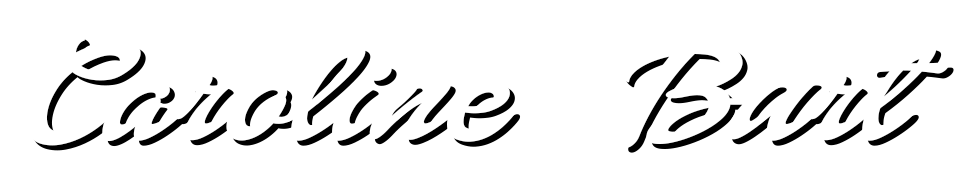
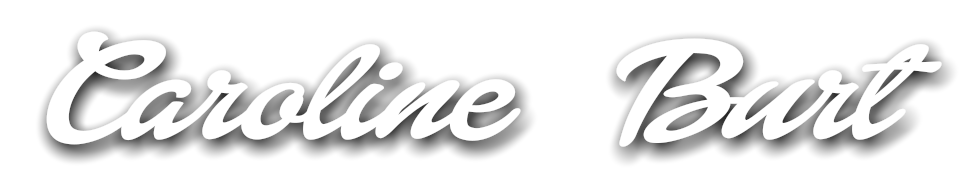
Did some styling, added title to main page, added audio files but did not implement them yet.

Changed region(s): [[0.0306, 0.1562, 0.551, 0.8438], [0.6122, 0.1875, 0.9796, 0.8438], [0.6429, 0.2188, 0.6735, 0.25]]

diff --git a/style.css b/style.css
@@ -17,20 +17,28 @@ img {
 }
 
 h2 {
-	font-family: "Barbie", serif;
-	font-size: 6VH;
+	font-family: "Helvetica Neue", sans-serif;
+	font-weight: 200;
+	font-size: 5.5VH;
+	/*color: #fff;*/
+	text-shadow: 2px 4px 3px rgba(0,0,0,0.2);
 }
 
 h3 {
 	font-size: 2.5vh;
+	font-family: "Helvtica Neue", sans-serif;
+	font-weight: 400;
+	font-style: italic;
+	text-shadow: 2px 4px 3px rgba(0,0,0,0.2);
 }
 
 .page-container {
 	height: 100vh;
 	display: flex;
+	flex-direction: column;
 	align-items: center;
 	justify-content: center;
-	background-color: pink;
+	background: radial-gradient(#FFF0FB 0%, #ff909e 100%);
 }
 
 /*.triange {
@@ -56,6 +64,10 @@ h3 {
 	width: 80%;
 }
 
+.home-title {
+	height: 14vh;
+}
+
 .dollhouse {
 	display: flex;
 	flex-direction: column;
@@ -69,7 +81,7 @@ h3 {
 }
 
 .roof-image {
-	height: 34.5vh;
+	height: 30vh;
 }
 
 .label {
@@ -107,7 +119,7 @@ h3 {
 .icon {
 	width: 35px;
 	height: 35px;
-	margin: 12px 30px 0;
+	margin: 16px 30px 0;
 }
 
 .room:hover > .label {
@@ -115,11 +127,11 @@ h3 {
 }
 
 .room:hover > .image {
-	opacity: 0.55;
+	opacity: 0.45;
 }
 
 .image {
-	height: 20vh;
+	height: 17.5vh;
 }
 
 .roof:hover > .label {
@@ -128,5 +140,5 @@ h3 {
 }
 
 .roof:hover > .roof-image {
-	opacity: 0.55;
+	opacity: 0.45;
 }

diff --git a/home.html b/home.html
@@ -4,11 +4,13 @@
 	<link rel="stylesheet" type="text/css" href="reset.css">
 	<link rel="stylesheet" type="text/css" href="style.css">
 	<script type="text/javascript" src="https://cdnjs.cloudflare.com/ajax/libs/jquery/3.1.1/jquery.min.js"></script>
+	<script   src="https://code.jquery.com/jquery-3.1.1.min.js"   integrity="sha256-hVVnYaiADRTO2PzUGmuLJr8BLUSjGIZsDYGmIJLv2b8="   crossorigin="anonymous"></script>
 	<script type="text/javascript" src="script.js"></script>
 	<title>2nd Dollhouse</title>
 </head>
 <body>
 	<div class="page-container">
+		<img src="images/caroline-title.png" class="home-title"/>
 		<div class="dollhouse">
 			<div class="roof">
 				<div class="label">				

diff --git a/script.js b/script.js
@@ -1,8 +1,3 @@
-// $(function() {
-// 	$(".image").hover(
-// 		function() {
-// 			$(this).siblings().first().show();
-// 		}, function () {
-// 			$(this).siblings().first().hide();
-// 		});
-// });
+function playSound(soundfile) {
+  document.getElementById("click").innerHTML= "<embed src='audio/click.mp3' hidden='true' autostart='true' loop='false' />";
+}
